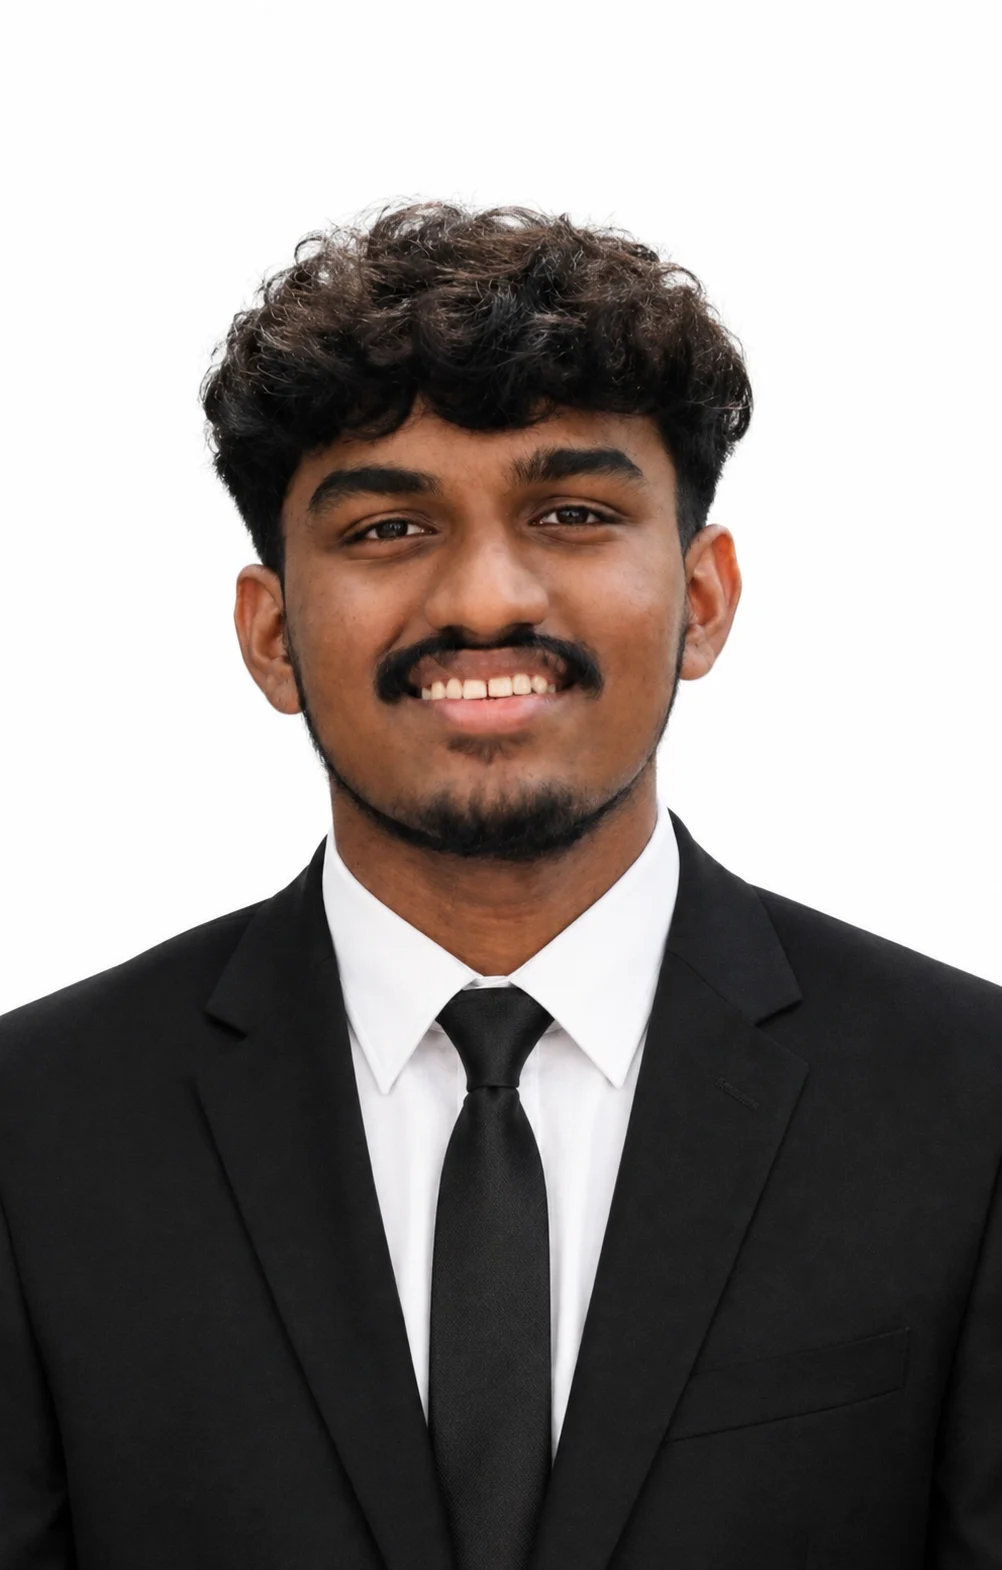
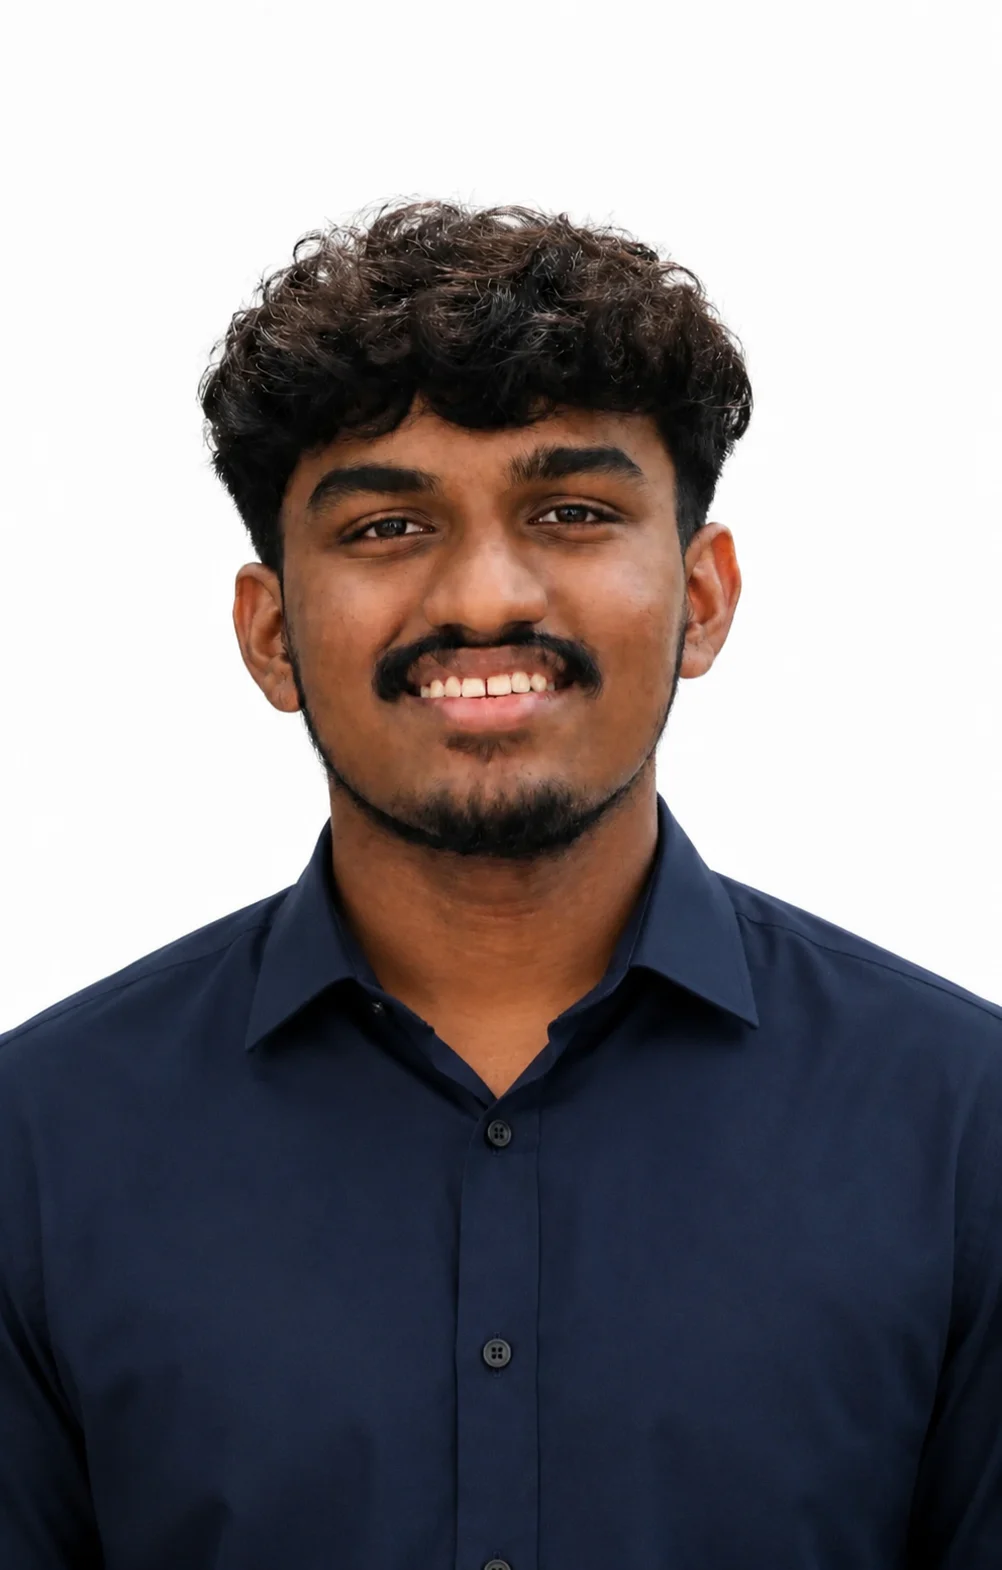
chore: update team photos and UI tweaks

diff --git a/frontend/src/components/Navbar/Navbar.tsx b/frontend/src/components/Navbar/Navbar.tsx
@@ -1,5 +1,5 @@
 "use client";
-import { useState, useEffect, useRef } from "react";
+import { useState, useEffect } from "react";
 import styles from "./Navbar.module.css";
 import Image from "next/image";
 
@@ -24,37 +24,11 @@ export default function Navbar({ hideLogo }: { hideLogo?: boolean }) {
   const [statIdx, setStatIdx] = useState(0);
   const [display, setDisplay] = useState(STATS[0]);
   const [paused, setPaused] = useState(false);
-  const [activeSection, setActiveSection] = useState<string | null>(null);
-  const observerRef = useRef<IntersectionObserver | null>(null);
 
   useEffect(() => {
     const onScroll = () => setScrolled(window.scrollY > 40);
     window.addEventListener("scroll", onScroll, { passive: true });
     return () => window.removeEventListener("scroll", onScroll);
-  }, []);
-
-  // Track active section by observing each section's intersection with the viewport
-  useEffect(() => {
-    const sectionIds = NAV_LINKS.map((l) => l.href.replace("/#", ""));
-    const sections = sectionIds
-      .map((id) => document.getElementById(id))
-      .filter(Boolean) as HTMLElement[];
-
-    if (observerRef.current) observerRef.current.disconnect();
-
-    observerRef.current = new IntersectionObserver(
-      (entries) => {
-        entries.forEach((entry) => {
-          if (entry.isIntersecting) {
-            setActiveSection(entry.target.id);
-          }
-        });
-      },
-      { rootMargin: "-30% 0px -60% 0px", threshold: 0 }
-    );
-
-    sections.forEach((s) => observerRef.current!.observe(s));
-    return () => observerRef.current?.disconnect();
   }, []);
 
   // Cycle stats — paused while hovered
@@ -125,21 +99,11 @@ export default function Navbar({ hideLogo }: { hideLogo?: boolean }) {
 
           {/* Desktop links */}
           <ul className={styles.links}>
-            {NAV_LINKS.map((l) => {
-              const sectionId = l.href.replace("/#", "");
-              const isActive = activeSection === sectionId;
-              return (
-                <li key={l.href}>
-                  <a
-                    href={l.href}
-                    className={`${styles.link} ${isActive ? styles.linkActive : ""}`}
-                    onClick={() => setActiveSection(sectionId)}
-                  >
-                    {l.label}
-                  </a>
-                </li>
-              );
-            })}
+            {NAV_LINKS.map((l) => (
+              <li key={l.href}>
+                <a href={l.href} className={styles.link}>{l.label}</a>
+              </li>
+            ))}
           </ul>
 
           {/* Right side: system identity + system command (desktop only) */}

diff --git a/frontend/src/components/Navbar/Navbar.module.css b/frontend/src/components/Navbar/Navbar.module.css
@@ -90,34 +90,16 @@
   bottom: -2px;
   width: 0;
   height: 2px;
-  background: var(--accent-lime);
-  transition: width 1s cubic-bezier(0.4, 0, 0.2, 1);
+  background: var(--text);
+  transition: width 0.6s ease;
 }
 
 .link:hover {
   color: var(--accent-lime);
-  transform: scale(1.08);
+  transform: scale(1.12);
 }
 .link:hover::after {
   width: 100%;
-}
-
-/* Active / currently-visible section — solid lime underline matching Singularity UI */
-.linkActive {
-  color: var(--accent-lime) !important;
-}
-.linkActive::after {
-  width: 100% !important;
-  background: #c8f135 !important;
-  height: 3px !important;
-  bottom: -3px !important;
-  box-shadow:
-    0 0 4px  #c8f135,
-    0 0 10px #c8f135,
-    0 0 22px #c8f135,
-    0 0 40px rgba(200, 241, 53, 0.6),
-    0 0 60px rgba(200, 241, 53, 0.3) !important;
-  transition: none !important;
 }
 
 .navActions {
